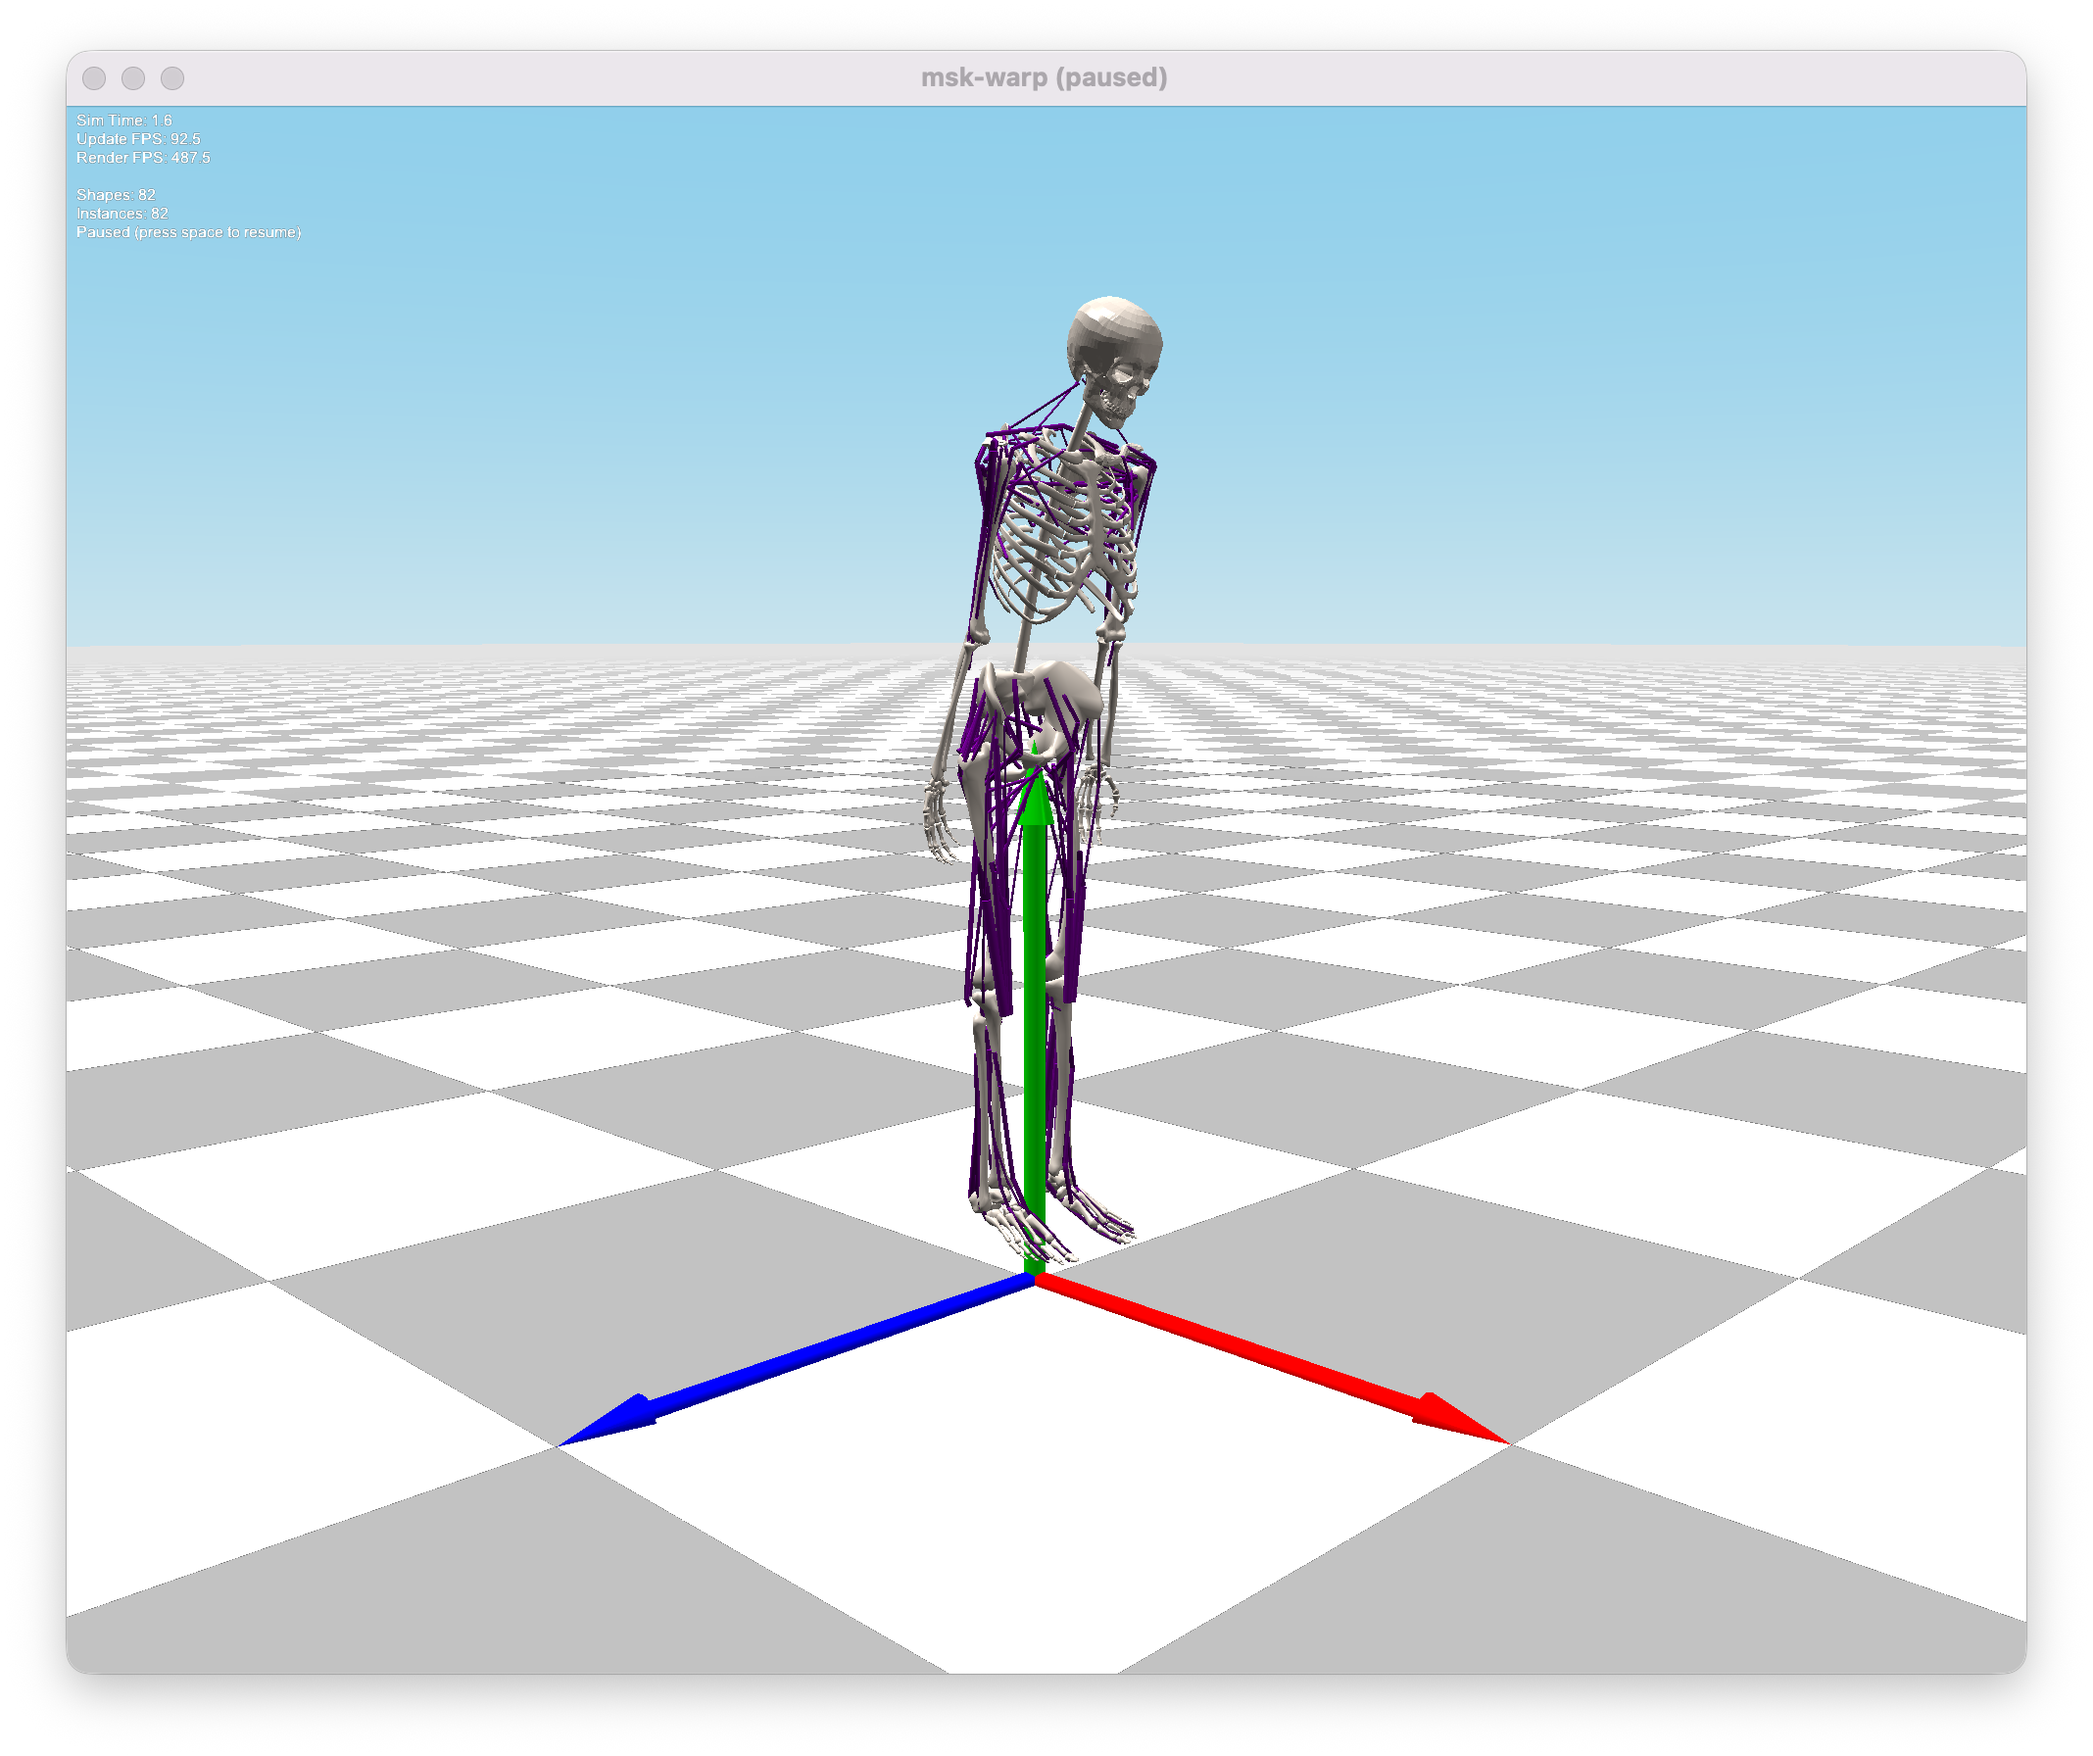
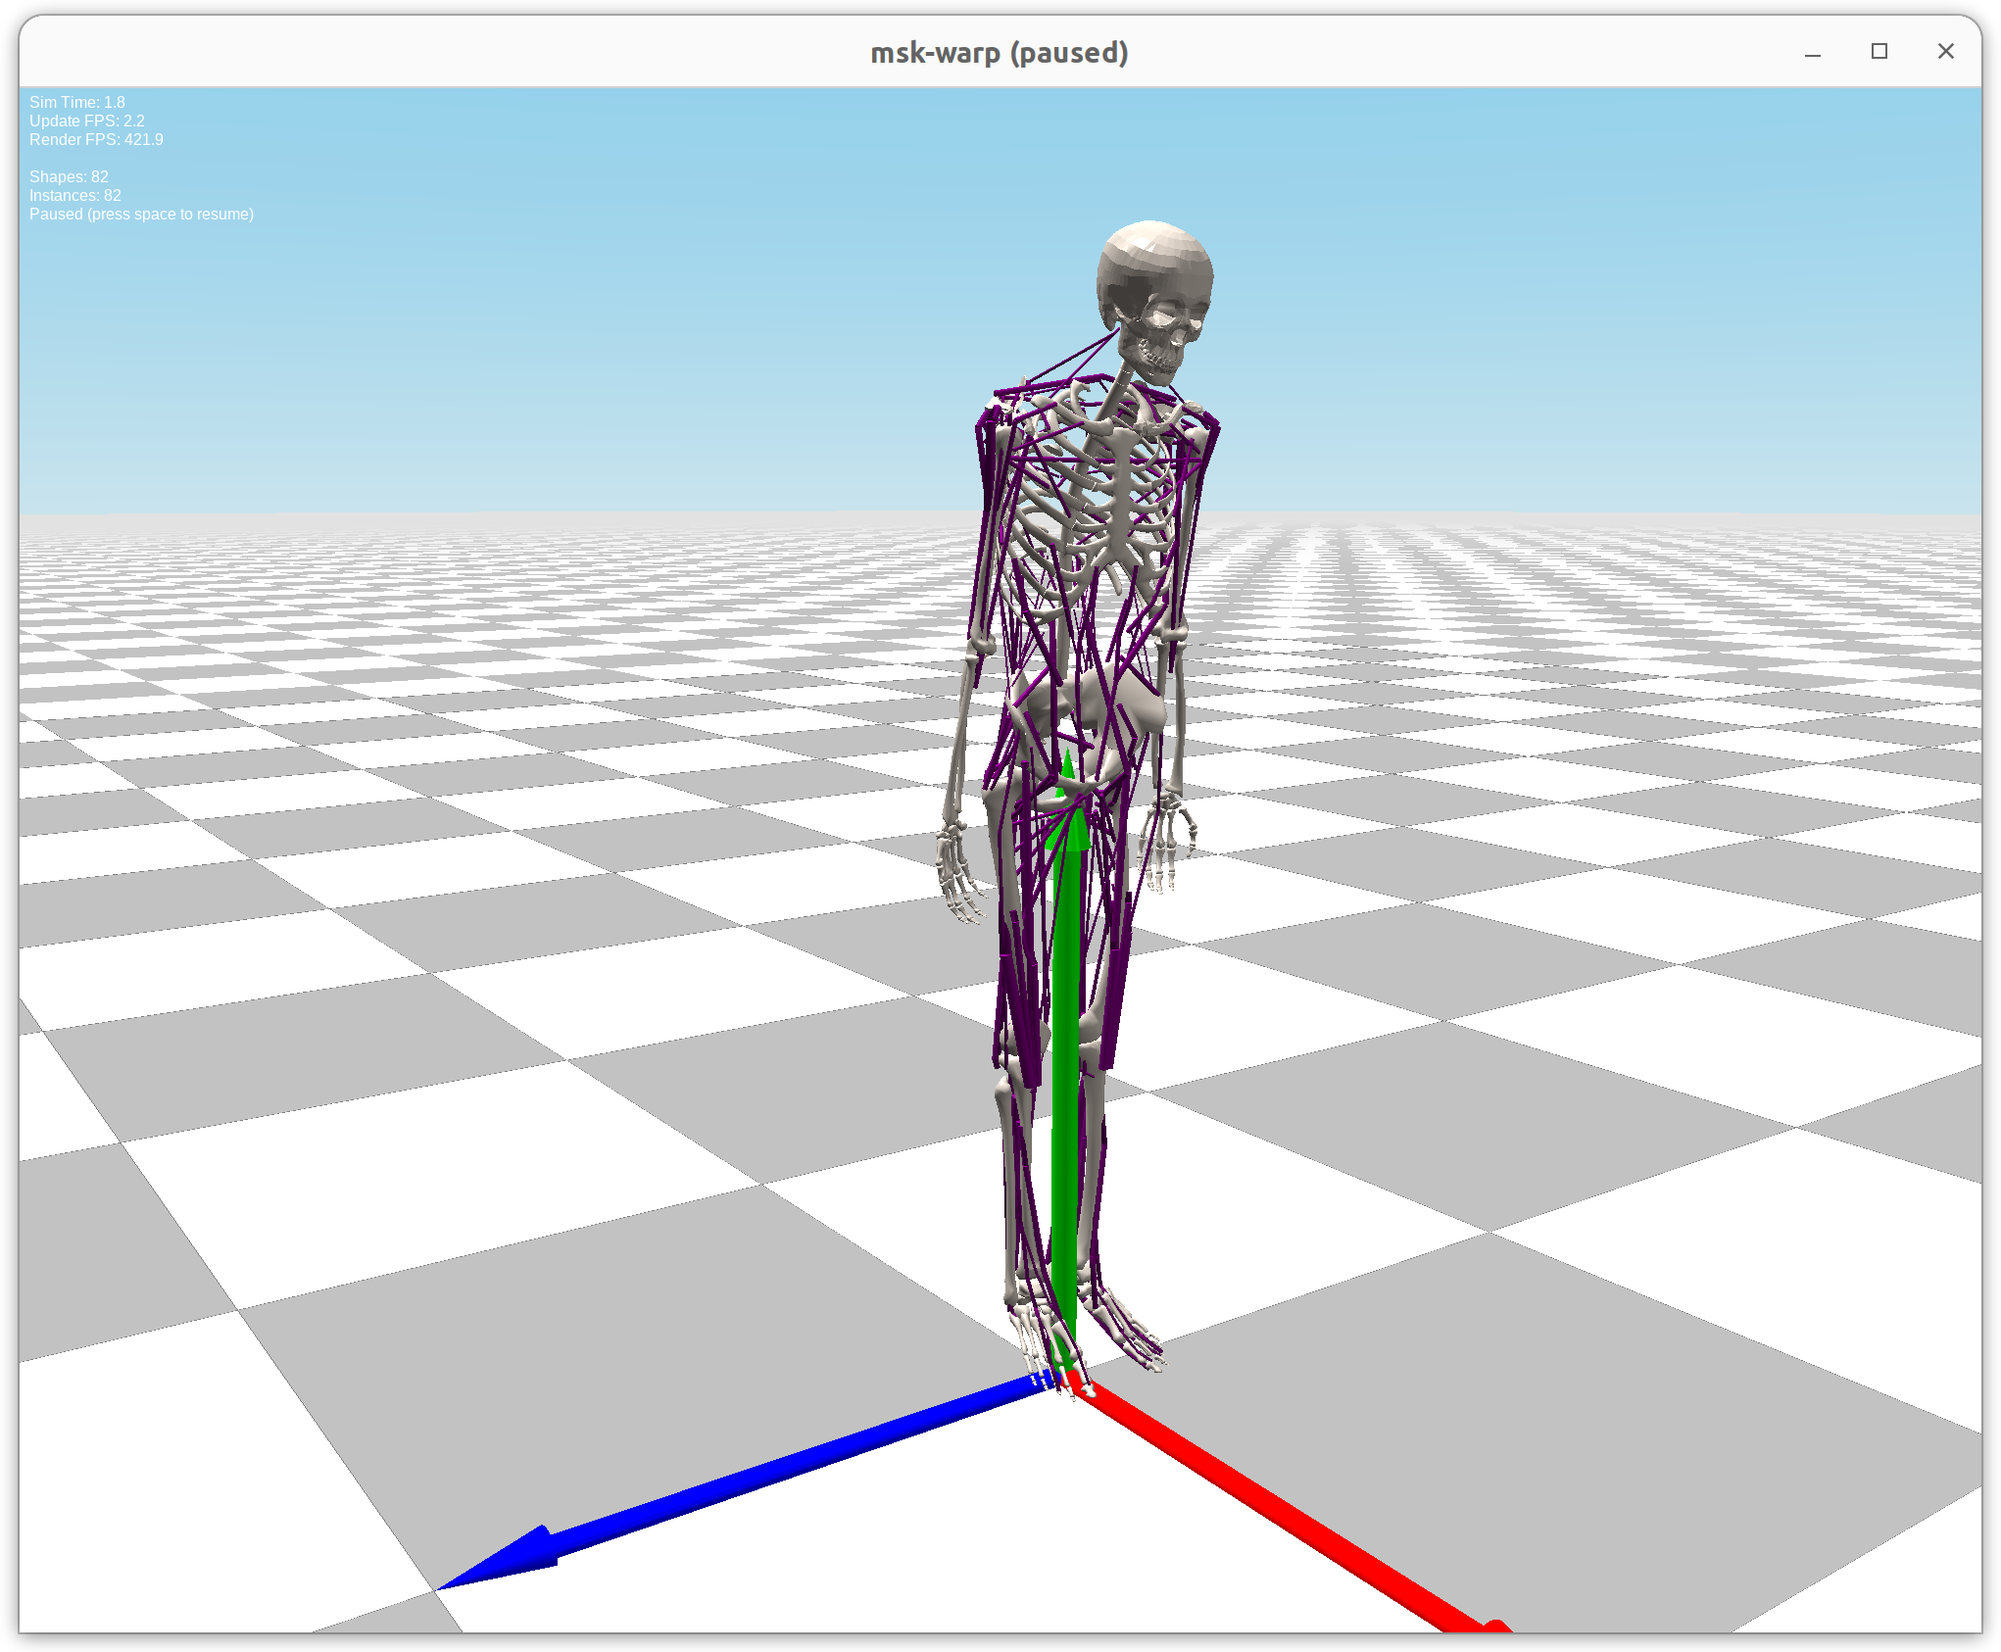
update readme

diff --git a/README.md b/README.md
@@ -7,7 +7,8 @@ GPU-accelerated physics simulations for articulated rigid bodies with muscle act
 
 **Current features include:**
 - Articulated body motion computations performed in generalized coordinates, including [OpenSim CustomJoint](https://simtk.org/api_docs/opensim/api_docs/classOpenSim_1_1CustomJoint.html) logic.
-- Stateful elastic tendon dynamics (based on [Millard et al.](https://doi.org/10.1115/1.4023390)) and muscle activation dynamics with force-curves based on [De Groote et al.](https://pubmed.ncbi.nlm.nih.gov/27001399/).
+- Stateful elastic tendon dynamics and muscle activation dynamics
+  - Force-curves based on either [Millard et al.](https://doi.org/10.1115/1.4023390) or [De Groote et al.](https://pubmed.ncbi.nlm.nih.gov/27001399/)
   - Includes option to use rigid tendons per muscle
   - Activation dynamics includes Degroote et al. and Millard et al. formulations.
 - Geometry-based and polynomial/function-based muscle paths.
@@ -16,7 +17,7 @@ GPU-accelerated physics simulations for articulated rigid bodies with muscle act
 Exponential joint limits based on [Anderson and Pandy](https://pubmed.ncbi.nlm.nih.gov/11264828/), 
 [Hunt-Crossley joint limits](https://simtk.org/api_docs/simbody/api_docs33/Simbody/html/classSimTK_1_1Force_1_1MobilityLinearStop.html), and
 [CoordinateLimitForce](https://simtk.org/api_docs/opensim/api_docs/classOpenSim_1_1CoordinateLimitForce.html).
-- Symplectic Euler, Midpoint Euler, RK4, adaptive symplectic Euler, adaptive midpoint Euler, and adaptive Runge-Kutta-Merson integrators.
+- Symplectic Euler, RK4, adaptive symplectic Euler, and adaptive Runge-Kutta-Merson integrators.
 
 We also include a basic [OpenGL renderer](msk_warp/render) (not tuned for performance) for debugging.
 
